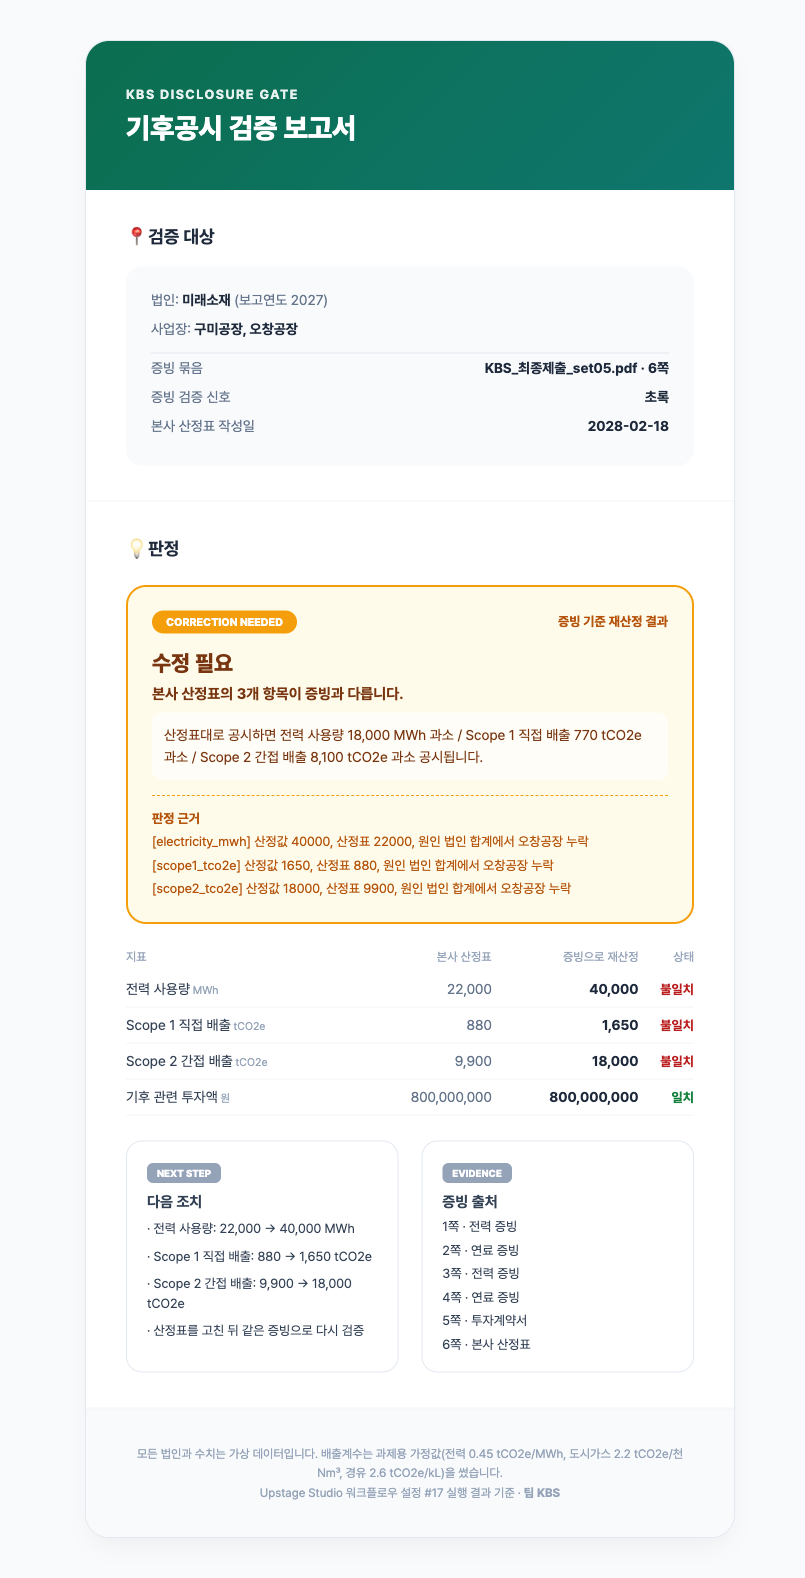
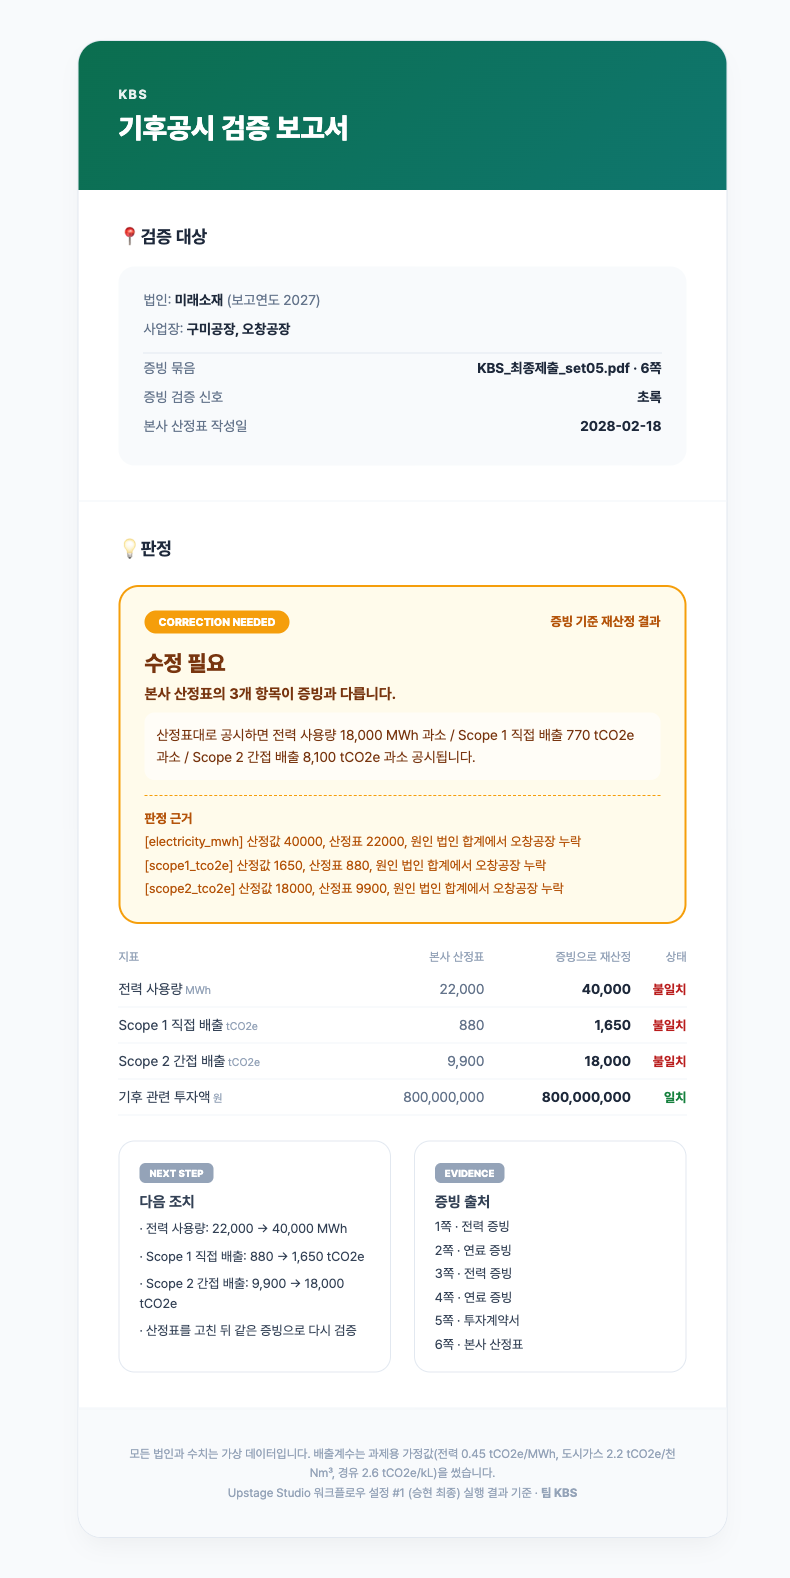
서비스 이름을 KBS로 변경, 팀 로고·탭 아이콘 적용

diff --git a/en/index.html b/en/index.html
@@ -3,7 +3,8 @@
 <head>
 <meta charset="utf-8">
 <meta name="viewport" content="width=device-width, initial-scale=1">
-<title>ESG GapLens · Self-verification workflow for climate disclosure</title>
+<link rel="icon" href="../img/favicon.png">
+<title>KBS · Self-verification workflow for climate disclosure</title>
 <meta name="description" content="A KSSB No. 2 workflow that verifies the HQ climate disclosure calculation sheet by recalculating from the original evidence documents">
 <link rel="stylesheet" href="https://cdn.jsdelivr.net/gh/orioncactus/pretendard@v1.3.9/dist/web/static/pretendard.min.css">
 <style>
@@ -57,7 +58,7 @@ footer{padding:36px 0 48px;color:var(--sub);font-size:13.5px;border-top:1px soli
 </style>
 </head>
 <body>
-<nav><div class="w"><b>ESG GapLens</b><a class="h" href="#demo">Demo</a><a class="h" href="#report">Report</a><a class="h" href="#how">Workflow</a><a class="h" href="#result">Results</a><a class="h" href="#team">Team</a><a class="h" href="submit.html">Submit Evidence</a><span class="sp"></span><a href="../" lang="ko" hreflang="ko">한국어</a><a class="btn s" href="gate.html">Open demo</a></div></nav>
+<nav><div class="w"><a href="./" style="display:flex;align-items:center;gap:10px;text-decoration:none"><img src="../img/logo.png" alt="KBS" style="height:24px;display:block"></a><a class="h" href="#demo">Demo</a><a class="h" href="#report">Report</a><a class="h" href="#how">Workflow</a><a class="h" href="#result">Results</a><a class="h" href="#team">Team</a><a class="h" href="submit.html">Submit Evidence</a><span class="sp"></span><a href="../" lang="ko" hreflang="ko">한국어</a><a class="btn s" href="gate.html">Open demo</a></div></nav>
 
 <div class="hero"><div class="w"><div>
   <div class="eyebrow">Verification layer for KSSB No. 2 climate disclosure</div>
@@ -71,7 +72,7 @@ footer{padding:36px 0 48px;color:var(--sub);font-size:13.5px;border-top:1px soli
 <section id="position"><div class="w">
   <div class="kicker">POSITIONING</div>
   <h2>A tool that verifies disclosures, not one that produces them</h2>
-  <p class="h2sub">Carbon accounting and disclosure authoring solutions produce the disclosure data, and errors arise in that process too. ESG GapLens takes disclosure figures that have already been prepared and recalculates them from the original evidence to check completeness and accuracy. It does not replace existing solutions; it sits on top of them.</p>
+  <p class="h2sub">Carbon accounting and disclosure authoring solutions produce the disclosure data, and errors arise in that process too. KBS takes disclosure figures that have already been prepared and recalculates them from the original evidence to check completeness and accuracy. It does not replace existing solutions; it sits on top of them.</p>
   <div class="grid g3">
     <div class="card"><h3>Error detection</h3><p>Tells apart wrong factor year, missing site, out-of-scope contract, unreadable document, duplicate, and missing evidence.</p></div>
     <div class="card"><h3>Evidence trace</h3><p>Records which document and page each disclosed number came from.</p></div>

diff --git a/index.html b/index.html
@@ -3,7 +3,8 @@
 <head>
 <meta charset="utf-8">
 <meta name="viewport" content="width=device-width, initial-scale=1">
-<title>ESG GapLens · 기후공시 자기검증 워크플로우</title>
+<link rel="icon" href="img/favicon.png">
+<title>KBS · 기후공시 자기검증 워크플로우</title>
 <meta name="description" content="원본 증빙으로 다시 계산해 본사 기후공시 산정표를 검증하는 KSSB 2호 워크플로우">
 <link rel="stylesheet" href="https://cdn.jsdelivr.net/gh/orioncactus/pretendard@v1.3.9/dist/web/static/pretendard.min.css">
 <style>
@@ -57,7 +58,7 @@ footer{padding:36px 0 48px;color:var(--sub);font-size:13.5px;border-top:1px soli
 </style>
 </head>
 <body>
-<nav><div class="w"><b>ESG GapLens</b><a class="h" href="#demo">데모</a><a class="h" href="#report">보고서</a><a class="h" href="#how">워크플로우</a><a class="h" href="#result">검증 결과</a><a class="h" href="#team">팀</a><a class="h" href="submit.html">증빙 제출</a><span class="sp"></span><a href="en/">EN</a><a class="btn s" href="gate.html">데모 열기</a></div></nav>
+<nav><div class="w"><a href="./" style="display:flex;align-items:center;gap:10px;text-decoration:none"><img src="img/logo.png" alt="KBS" style="height:24px;display:block"></a><a class="h" href="#demo">데모</a><a class="h" href="#report">보고서</a><a class="h" href="#how">워크플로우</a><a class="h" href="#result">검증 결과</a><a class="h" href="#team">팀</a><a class="h" href="submit.html">증빙 제출</a><span class="sp"></span><a href="en/">EN</a><a class="btn s" href="gate.html">데모 열기</a></div></nav>
 
 <div class="hero"><div class="w"><div>
   <div class="eyebrow">KSSB 2호 기후공시 검증 레이어</div>
@@ -71,7 +72,7 @@ footer{padding:36px 0 48px;color:var(--sub);font-size:13.5px;border-top:1px soli
 <section id="position"><div class="w">
   <div class="kicker">POSITIONING</div>
   <h2>공시를 만드는 도구가 아니라, 검증하는 도구입니다</h2>
-  <p class="h2sub">탄소회계·공시 작성 솔루션은 공시 자료를 만듭니다. 그 과정에서도 오류가 생깁니다. ESG GapLens는 이미 만들어진 공시 수치를 원본 증빙으로 다시 계산해 완전성과 정확성을 확인합니다. 기존 솔루션을 대체하지 않고 그 위에 붙습니다.</p>
+  <p class="h2sub">탄소회계·공시 작성 솔루션은 공시 자료를 만듭니다. 그 과정에서도 오류가 생깁니다. KBS는 이미 만들어진 공시 수치를 원본 증빙으로 다시 계산해 완전성과 정확성을 확인합니다. 기존 솔루션을 대체하지 않고 그 위에 붙습니다.</p>
   <div class="grid g3">
     <div class="card"><h3>오류 발견</h3><p>계수 연도, 사업장 누락, 대상 외 계약, 판독 불가, 중복, 증빙 누락을 구분해 냅니다.</p></div>
     <div class="card"><h3>증빙 추적</h3><p>공시 숫자마다 어느 문서 몇 쪽에서 나왔는지 남깁니다.</p></div>

diff --git a/landing.html b/landing.html
@@ -3,7 +3,8 @@
 <head>
 <meta charset="utf-8">
 <meta name="viewport" content="width=device-width, initial-scale=1">
-<title>ESG GapLens · 기후공시 자기검증 워크플로우</title>
+<link rel="icon" href="img/favicon.png">
+<title>KBS · 기후공시 자기검증 워크플로우</title>
 <meta name="description" content="원본 증빙으로 다시 계산해 본사 기후공시 산정표를 검증하는 KSSB 2호 워크플로우">
 <link rel="stylesheet" href="https://cdn.jsdelivr.net/gh/orioncactus/pretendard@v1.3.9/dist/web/static/pretendard.min.css">
 <style>
@@ -57,7 +58,7 @@ footer{padding:36px 0 48px;color:var(--sub);font-size:13.5px;border-top:1px soli
 </style>
 </head>
 <body>
-<nav><div class="w"><b>ESG GapLens</b><a class="h" href="#demo">데모</a><a class="h" href="#report">보고서</a><a class="h" href="#how">워크플로우</a><a class="h" href="#result">검증 결과</a><a class="h" href="#team">팀</a><a class="h" href="submit.html">증빙 제출</a><span class="sp"></span><a href="en/">EN</a><a class="btn s" href="gate.html">데모 열기</a></div></nav>
+<nav><div class="w"><a href="./" style="display:flex;align-items:center;gap:10px;text-decoration:none"><img src="img/logo.png" alt="KBS" style="height:24px;display:block"></a><a class="h" href="#demo">데모</a><a class="h" href="#report">보고서</a><a class="h" href="#how">워크플로우</a><a class="h" href="#result">검증 결과</a><a class="h" href="#team">팀</a><a class="h" href="submit.html">증빙 제출</a><span class="sp"></span><a href="en/">EN</a><a class="btn s" href="gate.html">데모 열기</a></div></nav>
 
 <div class="hero"><div class="w"><div>
   <div class="eyebrow">KSSB 2호 기후공시 검증 레이어</div>
@@ -71,7 +72,7 @@ footer{padding:36px 0 48px;color:var(--sub);font-size:13.5px;border-top:1px soli
 <section id="position"><div class="w">
   <div class="kicker">POSITIONING</div>
   <h2>공시를 만드는 도구가 아니라, 검증하는 도구입니다</h2>
-  <p class="h2sub">탄소회계·공시 작성 솔루션은 공시 자료를 만듭니다. 그 과정에서도 오류가 생깁니다. ESG GapLens는 이미 만들어진 공시 수치를 원본 증빙으로 다시 계산해 완전성과 정확성을 확인합니다. 기존 솔루션을 대체하지 않고 그 위에 붙습니다.</p>
+  <p class="h2sub">탄소회계·공시 작성 솔루션은 공시 자료를 만듭니다. 그 과정에서도 오류가 생깁니다. KBS는 이미 만들어진 공시 수치를 원본 증빙으로 다시 계산해 완전성과 정확성을 확인합니다. 기존 솔루션을 대체하지 않고 그 위에 붙습니다.</p>
   <div class="grid g3">
     <div class="card"><h3>오류 발견</h3><p>계수 연도, 사업장 누락, 대상 외 계약, 판독 불가, 중복, 증빙 누락을 구분해 냅니다.</p></div>
     <div class="card"><h3>증빙 추적</h3><p>공시 숫자마다 어느 문서 몇 쪽에서 나왔는지 남깁니다.</p></div>

diff --git a/gate.html b/gate.html
@@ -3,7 +3,8 @@
 <head>
 <meta charset="utf-8">
 <meta name="viewport" content="width=device-width, initial-scale=1">
-<title>ESG GapLens 공시 게이트</title>
+<link rel="icon" href="img/favicon.png">
+<title>KBS 공시 게이트</title>
 <link rel="stylesheet" href="https://cdn.jsdelivr.net/gh/orioncactus/pretendard@v1.3.9/dist/web/static/pretendard.min.css">
 <style>
 :root{--main:#0b6e4f;--main-soft:#e7f3ee;--ink:#16201c;--sub:#5d6b65;--line:#dfe5e2;--bg:#f6f8f7;--red:#c0392b;--yellow:#b7791f;--green:#0b6e4f}
@@ -58,7 +59,7 @@ details{margin-top:10px}summary{cursor:pointer;color:var(--sub);font-size:13.5px
 <body>
 <header><div class="wrap">
   <a href="./" style="font-size:13px;color:var(--sub);text-decoration:none">← 서비스 소개</a> <a href="en/gate.html" style="font-size:13px;color:var(--sub);text-decoration:none;margin-left:12px">EN</a>
-  <h1>ESG GapLens 공시 게이트 <small>KSSB 2호 기후 지표 · 보고연도 2027 · 워크플로우 설정 #<span id="cfg"></span></small></h1>
+  <h1><img src="img/favicon.png" alt="" style="height:24px;vertical-align:-5px;margin-right:8px">KBS 공시 게이트 <small>KSSB 2호 기후 지표 · 보고연도 2027 · 워크플로우 설정 #<span id="cfg"></span></small></h1>
   <div class="bar"><i id="barfill"></i></div>
   <div id="barlabel" style="font-size:13.5px;color:var(--sub)"></div>
   <div class="sum" id="chips"></div>

diff --git a/en/gate.html b/en/gate.html
@@ -3,7 +3,8 @@
 <head>
 <meta charset="utf-8">
 <meta name="viewport" content="width=device-width, initial-scale=1">
-<title>ESG GapLens Disclosure Gate</title>
+<link rel="icon" href="../img/favicon.png">
+<title>KBS Disclosure Gate</title>
 <link rel="stylesheet" href="https://cdn.jsdelivr.net/gh/orioncactus/pretendard@v1.3.9/dist/web/static/pretendard.min.css">
 <style>
 :root{--main:#0b6e4f;--main-soft:#e7f3ee;--ink:#16201c;--sub:#5d6b65;--line:#dfe5e2;--bg:#f6f8f7;--red:#c0392b;--yellow:#b7791f;--green:#0b6e4f}
@@ -58,7 +59,7 @@ details{margin-top:10px}summary{cursor:pointer;color:var(--sub);font-size:13.5px
 <body>
 <header><div class="wrap">
   <a href="./" style="font-size:13px;color:var(--sub);text-decoration:none">← Overview</a> <a href="../gate.html" style="font-size:13px;color:var(--sub);text-decoration:none;margin-left:12px">한국어</a>
-  <h1>ESG GapLens Disclosure Gate <small>KSSB No. 2 climate metrics · Reporting year 2027 · Workflow config #<span id="cfg"></span></small></h1>
+  <h1><img src="../img/favicon.png" alt="" style="height:24px;vertical-align:-5px;margin-right:8px">KBS Disclosure Gate <small>KSSB No. 2 climate metrics · Reporting year 2027 · Workflow config #<span id="cfg"></span></small></h1>
   <div class="bar"><i id="barfill"></i></div>
   <div id="barlabel" style="font-size:13.5px;color:var(--sub)"></div>
   <div class="sum" id="chips"></div>

diff --git a/en/submit.html b/en/submit.html
@@ -3,7 +3,8 @@
 <head>
 <meta charset="utf-8">
 <meta name="viewport" content="width=device-width, initial-scale=1">
-<title>Submit Evidence · ESG GapLens</title>
+<link rel="icon" href="../img/favicon.png">
+<title>Submit Evidence · KBS</title>
 <link rel="stylesheet" href="https://cdn.jsdelivr.net/gh/orioncactus/pretendard@v1.3.9/dist/web/static/pretendard.min.css">
 <style>
 :root{--main:#0b6e4f;--soft:#e7f3ee;--ink:#16201c;--sub:#5d6b65;--line:#dfe5e2;--bg:#f6f8f7;--red:#c0392b}
@@ -42,7 +43,7 @@ footer{color:var(--sub);font-size:13px;padding:0 0 40px}
 </style>
 </head>
 <body>
-<nav><div class="w"><b>ESG GapLens</b><a href="./">Overview</a><a href="gate.html">Disclosure Gate</a><a href="../submit.html">한국어</a></div></nav>
+<nav><div class="w"><a href="./" style="display:flex;align-items:center;gap:10px;text-decoration:none"><img src="../img/logo.png" alt="KBS" style="height:24px;display:block"></a><a href="./">Overview</a><a href="gate.html">Disclosure Gate</a><a href="../submit.html">한국어</a></div></nav>
 <div class="top"><div class="w">
   <span class="badge">Reporting year 2027 · Climate disclosure evidence intake</span>
   <h1>Upload your evidence and <b>verification starts right away</b></h1>

diff --git a/submit.html b/submit.html
@@ -3,7 +3,8 @@
 <head>
 <meta charset="utf-8">
 <meta name="viewport" content="width=device-width, initial-scale=1">
-<title>증빙 제출 · ESG GapLens</title>
+<link rel="icon" href="img/favicon.png">
+<title>증빙 제출 · KBS</title>
 <link rel="stylesheet" href="https://cdn.jsdelivr.net/gh/orioncactus/pretendard@v1.3.9/dist/web/static/pretendard.min.css">
 <style>
 :root{--main:#0b6e4f;--soft:#e7f3ee;--ink:#16201c;--sub:#5d6b65;--line:#dfe5e2;--bg:#f6f8f7;--red:#c0392b}
@@ -42,7 +43,7 @@ footer{color:var(--sub);font-size:13px;padding:0 0 40px}
 </style>
 </head>
 <body>
-<nav><div class="w"><b>ESG GapLens</b><a href="./">서비스 소개</a><a href="gate.html">공시 게이트</a><a href="en/submit.html">EN</a></div></nav>
+<nav><div class="w"><a href="./" style="display:flex;align-items:center;gap:10px;text-decoration:none"><img src="img/logo.png" alt="KBS" style="height:24px;display:block"></a><a href="./">서비스 소개</a><a href="gate.html">공시 게이트</a><a href="en/submit.html">EN</a></div></nav>
 <div class="top"><div class="w">
   <span class="badge">2027 보고연도 · 기후공시 증빙 접수</span>
   <h1>증빙을 올리면 <b>바로 검증</b>이 시작됩니다</h1>

diff --git a/en/report/set01.html b/en/report/set01.html
@@ -6,7 +6,7 @@
 <table width="100%" cellpadding="0" cellspacing="0" border="0" style="background-color:#f8fafc;padding:40px 10px;"><tr><td align="center">
 <table width="650" cellpadding="0" cellspacing="0" border="0" style="max-width:650px;width:100%;background-color:#ffffff;border-radius:24px;overflow:hidden;border:1px solid #e2e8f0;box-shadow:0 12px 24px -6px rgba(0,0,0,0.05);">
 <tr><td style="padding:45px 40px;background:linear-gradient(135deg,#0b6e4f 0%,#0f766e 100%);text-align:left;">
-  <p style="margin:0;color:#ffffff;font-size:13px;font-weight:700;letter-spacing:1.5px;opacity:0.9;">ESG GAPLENS</p>
+  <p style="margin:0;color:#ffffff;font-size:13px;font-weight:700;letter-spacing:1.5px;opacity:0.9;">KBS</p>
   <h1 style="margin:10px 0 0;color:#ffffff;font-size:28px;font-weight:800;">Climate Disclosure Verification Report</h1>
 </td></tr>
 <tr><td style="padding:35px 40px;border-bottom:1px solid #f1f5f9;">

diff --git a/en/report/set02.html b/en/report/set02.html
@@ -6,7 +6,7 @@
 <table width="100%" cellpadding="0" cellspacing="0" border="0" style="background-color:#f8fafc;padding:40px 10px;"><tr><td align="center">
 <table width="650" cellpadding="0" cellspacing="0" border="0" style="max-width:650px;width:100%;background-color:#ffffff;border-radius:24px;overflow:hidden;border:1px solid #e2e8f0;box-shadow:0 12px 24px -6px rgba(0,0,0,0.05);">
 <tr><td style="padding:45px 40px;background:linear-gradient(135deg,#0b6e4f 0%,#0f766e 100%);text-align:left;">
-  <p style="margin:0;color:#ffffff;font-size:13px;font-weight:700;letter-spacing:1.5px;opacity:0.9;">ESG GAPLENS</p>
+  <p style="margin:0;color:#ffffff;font-size:13px;font-weight:700;letter-spacing:1.5px;opacity:0.9;">KBS</p>
   <h1 style="margin:10px 0 0;color:#ffffff;font-size:28px;font-weight:800;">Climate Disclosure Verification Report</h1>
 </td></tr>
 <tr><td style="padding:35px 40px;border-bottom:1px solid #f1f5f9;">

diff --git a/en/report/set03.html b/en/report/set03.html
@@ -6,7 +6,7 @@
 <table width="100%" cellpadding="0" cellspacing="0" border="0" style="background-color:#f8fafc;padding:40px 10px;"><tr><td align="center">
 <table width="650" cellpadding="0" cellspacing="0" border="0" style="max-width:650px;width:100%;background-color:#ffffff;border-radius:24px;overflow:hidden;border:1px solid #e2e8f0;box-shadow:0 12px 24px -6px rgba(0,0,0,0.05);">
 <tr><td style="padding:45px 40px;background:linear-gradient(135deg,#0b6e4f 0%,#0f766e 100%);text-align:left;">
-  <p style="margin:0;color:#ffffff;font-size:13px;font-weight:700;letter-spacing:1.5px;opacity:0.9;">ESG GAPLENS</p>
+  <p style="margin:0;color:#ffffff;font-size:13px;font-weight:700;letter-spacing:1.5px;opacity:0.9;">KBS</p>
   <h1 style="margin:10px 0 0;color:#ffffff;font-size:28px;font-weight:800;">Climate Disclosure Verification Report</h1>
 </td></tr>
 <tr><td style="padding:35px 40px;border-bottom:1px solid #f1f5f9;">

diff --git a/en/report/set04.html b/en/report/set04.html
@@ -6,7 +6,7 @@
 <table width="100%" cellpadding="0" cellspacing="0" border="0" style="background-color:#f8fafc;padding:40px 10px;"><tr><td align="center">
 <table width="650" cellpadding="0" cellspacing="0" border="0" style="max-width:650px;width:100%;background-color:#ffffff;border-radius:24px;overflow:hidden;border:1px solid #e2e8f0;box-shadow:0 12px 24px -6px rgba(0,0,0,0.05);">
 <tr><td style="padding:45px 40px;background:linear-gradient(135deg,#0b6e4f 0%,#0f766e 100%);text-align:left;">
-  <p style="margin:0;color:#ffffff;font-size:13px;font-weight:700;letter-spacing:1.5px;opacity:0.9;">ESG GAPLENS</p>
+  <p style="margin:0;color:#ffffff;font-size:13px;font-weight:700;letter-spacing:1.5px;opacity:0.9;">KBS</p>
   <h1 style="margin:10px 0 0;color:#ffffff;font-size:28px;font-weight:800;">Climate Disclosure Verification Report</h1>
 </td></tr>
 <tr><td style="padding:35px 40px;border-bottom:1px solid #f1f5f9;">

diff --git a/en/report/set05.html b/en/report/set05.html
@@ -6,7 +6,7 @@
 <table width="100%" cellpadding="0" cellspacing="0" border="0" style="background-color:#f8fafc;padding:40px 10px;"><tr><td align="center">
 <table width="650" cellpadding="0" cellspacing="0" border="0" style="max-width:650px;width:100%;background-color:#ffffff;border-radius:24px;overflow:hidden;border:1px solid #e2e8f0;box-shadow:0 12px 24px -6px rgba(0,0,0,0.05);">
 <tr><td style="padding:45px 40px;background:linear-gradient(135deg,#0b6e4f 0%,#0f766e 100%);text-align:left;">
-  <p style="margin:0;color:#ffffff;font-size:13px;font-weight:700;letter-spacing:1.5px;opacity:0.9;">ESG GAPLENS</p>
+  <p style="margin:0;color:#ffffff;font-size:13px;font-weight:700;letter-spacing:1.5px;opacity:0.9;">KBS</p>
   <h1 style="margin:10px 0 0;color:#ffffff;font-size:28px;font-weight:800;">Climate Disclosure Verification Report</h1>
 </td></tr>
 <tr><td style="padding:35px 40px;border-bottom:1px solid #f1f5f9;">
